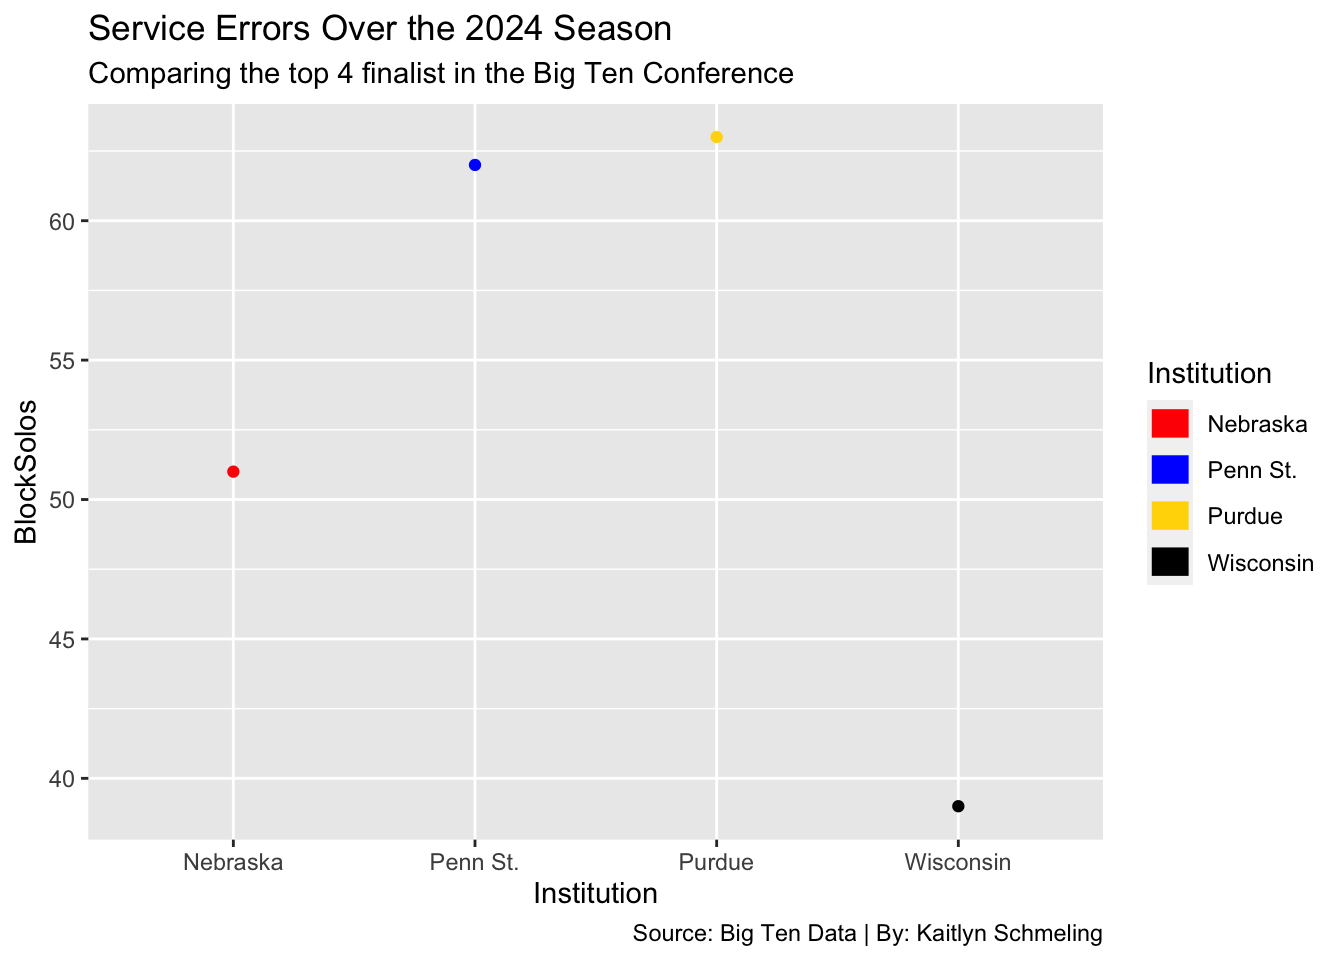
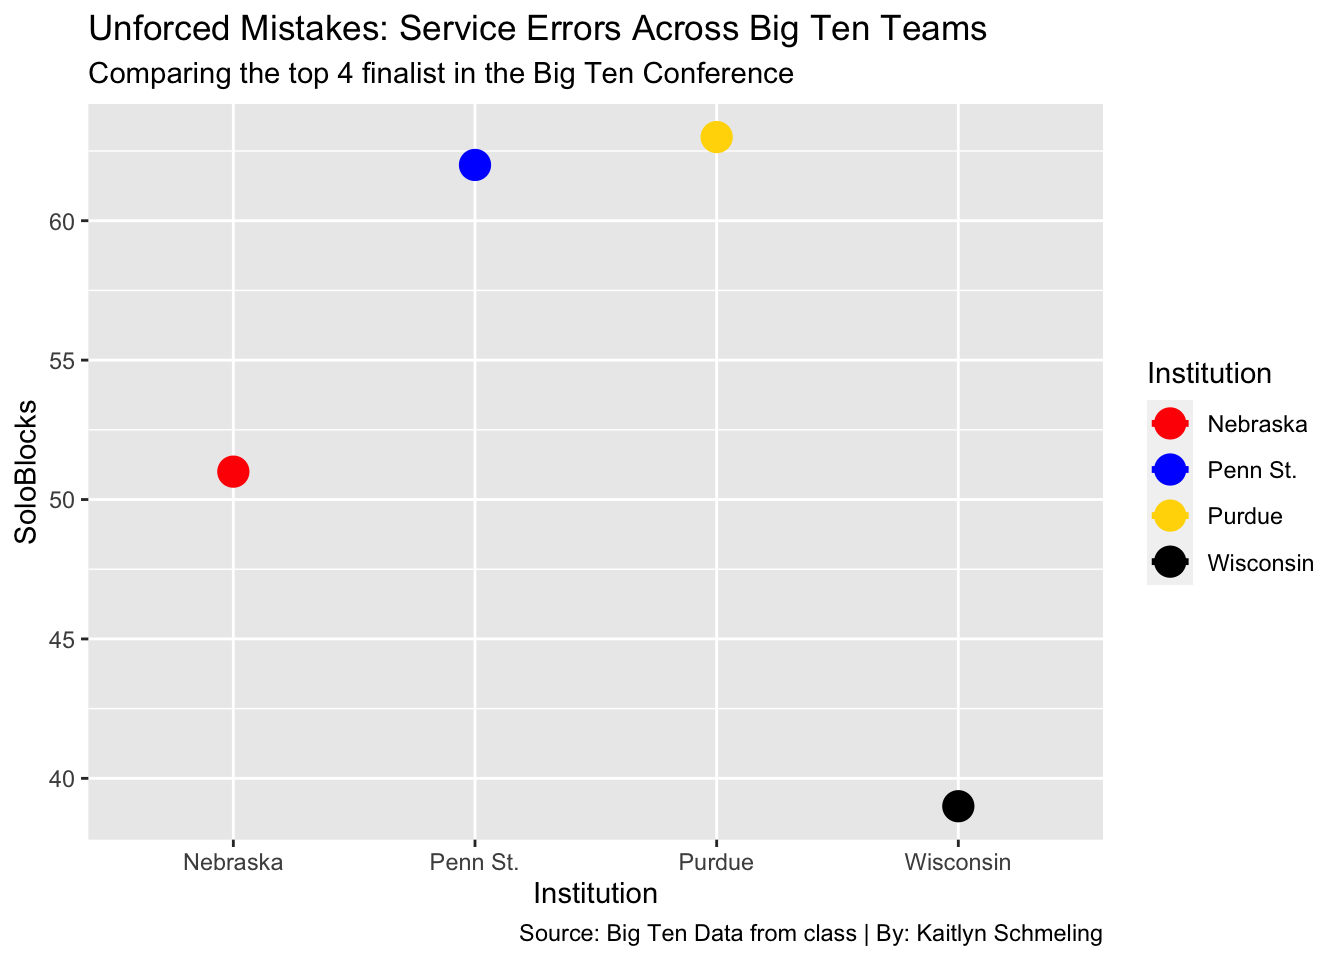
commit to main

diff --git a/posts/bigten_season_outcome/index.html b/posts/bigten_season_outcome/index.html
@@ -190,7 +190,7 @@ pre > code.sourceCode > span > a:first-child::before { text-decoration: underlin
 
 
 
-<p>With almost a near perfect season the Husker Volleyball team had their eyes set on making it to the National Championship for the 2024 season. Sadly, the Nebraska Volleyball team did not have the outcome that they were hoping for, falling short in the Final Four. First, let’s dive into looking at the kills per set from other teams in the Big Ten and who has the highest numbers.</p>
+<p>With almost a near perfect season the Husker Volleyball team had their eyes set on making it to the National Championship for the 2024 season. Sadly, the Nebraska Volleyball team did not have the outcome that they were hoping for, falling short in the Final Four. But looking at their season before this, they won the Big Ten Championships. Their season was almost perfect and there stats how that. First, let’s dive into looking at the kills per set from other teams in the Big Ten and who has the highest numbers.</p>
 <div class="cell">
 <details class="code-fold">
 <summary>Code</summary>
@@ -202,9 +202,9 @@ pre > code.sourceCode > span > a:first-child::before { text-decoration: underlin
 <span id="cb1-6"><a href="#cb1-6" aria-hidden="true" tabindex="-1"></a>  <span class="co">#|\\ warning: false </span></span>
 <span id="cb1-7"><a href="#cb1-7" aria-hidden="true" tabindex="-1"></a><span class="fu">ggplot</span>(data, <span class="fu">aes</span>(<span class="at">x=</span>Institution, <span class="at">y=</span>Kills)) <span class="sc">+</span></span>
 <span id="cb1-8"><a href="#cb1-8" aria-hidden="true" tabindex="-1"></a>  <span class="fu">geom_boxplot</span>() <span class="sc">+</span></span>
-<span id="cb1-9"><a href="#cb1-9" aria-hidden="true" tabindex="-1"></a>  <span class="fu">labs</span>(<span class="at">title=</span><span class="st">"Kills Per Set Distribution"</span>, <span class="at">x=</span><span class="st">"Institutions"</span>, <span class="at">y=</span><span class="st">"Kills"</span>,</span>
+<span id="cb1-9"><a href="#cb1-9" aria-hidden="true" tabindex="-1"></a>  <span class="fu">labs</span>(<span class="at">title=</span><span class="st">"Offensive Output: Kills Per Set Across Big Ten Teams"</span>, <span class="at">x=</span><span class="st">"Institutions"</span>, <span class="at">y=</span><span class="st">"Kills"</span>,</span>
 <span id="cb1-10"><a href="#cb1-10" aria-hidden="true" tabindex="-1"></a>       <span class="at">subtitle =</span><span class="st">"Nebraska's biggest competition came down to Penn State."</span>,</span>
-<span id="cb1-11"><a href="#cb1-11" aria-hidden="true" tabindex="-1"></a>       <span class="at">caption =</span> <span class="st">"Source: Big Ten Data | By: Kaitlyn Schmeling"</span>) <span class="sc">+</span></span>
+<span id="cb1-11"><a href="#cb1-11" aria-hidden="true" tabindex="-1"></a>       <span class="at">caption =</span> <span class="st">"Source: Big Ten Data from class | By: Kaitlyn Schmeling"</span>) <span class="sc">+</span></span>
 <span id="cb1-12"><a href="#cb1-12" aria-hidden="true" tabindex="-1"></a>  <span class="fu">theme_minimal</span>()<span class="sc">+</span></span>
 <span id="cb1-13"><a href="#cb1-13" aria-hidden="true" tabindex="-1"></a>  <span class="fu">theme</span>(<span class="at">axis.text.x =</span> <span class="fu">element_text</span>(<span class="at">angle =</span> <span class="dv">45</span>, <span class="at">hjust =</span> <span class="dv">1</span>))</span></code><button title="Copy to Clipboard" class="code-copy-button"><i class="bi"></i></button></pre></div>
 </details>
@@ -225,22 +225,21 @@ pre > code.sourceCode > span > a:first-child::before { text-decoration: underlin
 <span id="cb2-2"><a href="#cb2-2" aria-hidden="true" tabindex="-1"></a><span class="fu">library</span>(tidyr)</span>
 <span id="cb2-3"><a href="#cb2-3" aria-hidden="true" tabindex="-1"></a></span>
 <span id="cb2-4"><a href="#cb2-4" aria-hidden="true" tabindex="-1"></a>stats <span class="ot">&lt;-</span> <span class="fu">data.frame</span>(</span>
-<span id="cb2-5"><a href="#cb2-5" aria-hidden="true" tabindex="-1"></a>  <span class="at">Team =</span> <span class="fu">c</span>(<span class="st">"Nebraska"</span>, <span class="st">"Penn State"</span>, <span class="st">"Wisconsin"</span>, <span class="st">"Minnesota"</span>),</span>
+<span id="cb2-5"><a href="#cb2-5" aria-hidden="true" tabindex="-1"></a>  <span class="at">Institution =</span> <span class="fu">c</span>(<span class="st">"Nebraska"</span>, <span class="st">"Penn State"</span>, <span class="st">"Wisconsin"</span>, <span class="st">"Minnesota"</span>),</span>
 <span id="cb2-6"><a href="#cb2-6" aria-hidden="true" tabindex="-1"></a>  <span class="at">Kills =</span> <span class="fu">c</span>(<span class="dv">900</span>, <span class="dv">850</span>, <span class="dv">880</span>, <span class="dv">820</span>),</span>
 <span id="cb2-7"><a href="#cb2-7" aria-hidden="true" tabindex="-1"></a>  <span class="at">Errors =</span> <span class="fu">c</span>(<span class="dv">150</span>, <span class="dv">140</span>, <span class="dv">160</span>, <span class="dv">130</span>),</span>
-<span id="cb2-8"><a href="#cb2-8" aria-hidden="true" tabindex="-1"></a>  <span class="at">Total_Attacks =</span> <span class="fu">c</span>(<span class="dv">2200</span>, <span class="dv">2100</span>, <span class="dv">2150</span>, <span class="dv">2000</span>),</span>
-<span id="cb2-9"><a href="#cb2-9" aria-hidden="true" tabindex="-1"></a>  <span class="at">Service_Errors =</span> <span class="fu">c</span>(<span class="dv">75</span>, <span class="dv">80</span>, <span class="dv">70</span>, <span class="dv">85</span>)</span>
-<span id="cb2-10"><a href="#cb2-10" aria-hidden="true" tabindex="-1"></a>)</span>
-<span id="cb2-11"><a href="#cb2-11" aria-hidden="true" tabindex="-1"></a></span>
-<span id="cb2-12"><a href="#cb2-12" aria-hidden="true" tabindex="-1"></a>stats_long <span class="ot">&lt;-</span> <span class="fu">pivot_longer</span>(stats, <span class="at">cols =</span> <span class="sc">-</span>Team, <span class="at">names_to =</span> <span class="st">"Stat"</span>, <span class="at">values_to =</span> <span class="st">"Value"</span>)</span>
-<span id="cb2-13"><a href="#cb2-13" aria-hidden="true" tabindex="-1"></a></span>
-<span id="cb2-14"><a href="#cb2-14" aria-hidden="true" tabindex="-1"></a><span class="fu">ggplot</span>(stats_long, <span class="fu">aes</span>(<span class="at">x=</span>Stat, <span class="at">y=</span>Value, <span class="at">fill=</span>Team)) <span class="sc">+</span></span>
-<span id="cb2-15"><a href="#cb2-15" aria-hidden="true" tabindex="-1"></a>  <span class="fu">geom_bar</span>(<span class="at">stat=</span><span class="st">"identity"</span>, <span class="at">position=</span><span class="st">"dodge"</span>) <span class="sc">+</span></span>
-<span id="cb2-16"><a href="#cb2-16" aria-hidden="true" tabindex="-1"></a>  <span class="fu">labs</span>(<span class="at">title=</span><span class="st">"Nebraska vs. Top Opponents: Key Stats"</span>, <span class="at">x=</span><span class="st">"Stat Type"</span>, <span class="at">y=</span><span class="st">"Value"</span>,</span>
-<span id="cb2-17"><a href="#cb2-17" aria-hidden="true" tabindex="-1"></a>       <span class="at">subtitle =</span><span class="st">"Nebraska having the highest total attacks and kills."</span>,</span>
-<span id="cb2-18"><a href="#cb2-18" aria-hidden="true" tabindex="-1"></a>       <span class="at">caption =</span> <span class="st">"Source: Big Ten Data | By: Kaitlyn Schmeling"</span>) <span class="sc">+</span></span>
-<span id="cb2-19"><a href="#cb2-19" aria-hidden="true" tabindex="-1"></a>  <span class="fu">theme_minimal</span>()<span class="sc">+</span></span>
-<span id="cb2-20"><a href="#cb2-20" aria-hidden="true" tabindex="-1"></a>            <span class="fu">theme</span>(<span class="at">axis.text.x =</span> <span class="fu">element_text</span>(<span class="at">angle =</span> <span class="dv">15</span>, <span class="at">hjust =</span> <span class="dv">1</span>))</span></code><button title="Copy to Clipboard" class="code-copy-button"><i class="bi"></i></button></pre></div>
+<span id="cb2-8"><a href="#cb2-8" aria-hidden="true" tabindex="-1"></a>  <span class="at">Total_Attacks =</span> <span class="fu">c</span>(<span class="dv">2200</span>, <span class="dv">2100</span>, <span class="dv">2150</span>, <span class="dv">2000</span>)</span>
+<span id="cb2-9"><a href="#cb2-9" aria-hidden="true" tabindex="-1"></a>)</span>
+<span id="cb2-10"><a href="#cb2-10" aria-hidden="true" tabindex="-1"></a></span>
+<span id="cb2-11"><a href="#cb2-11" aria-hidden="true" tabindex="-1"></a>stats_long <span class="ot">&lt;-</span> <span class="fu">pivot_longer</span>(stats, <span class="at">cols =</span> <span class="sc">-</span>Institution, <span class="at">names_to =</span> <span class="st">"Stat"</span>, <span class="at">values_to =</span> <span class="st">"Value"</span>)</span>
+<span id="cb2-12"><a href="#cb2-12" aria-hidden="true" tabindex="-1"></a></span>
+<span id="cb2-13"><a href="#cb2-13" aria-hidden="true" tabindex="-1"></a><span class="fu">ggplot</span>(stats_long, <span class="fu">aes</span>(<span class="at">x=</span>Stat, <span class="at">y=</span>Value, <span class="at">fill=</span>Institution)) <span class="sc">+</span></span>
+<span id="cb2-14"><a href="#cb2-14" aria-hidden="true" tabindex="-1"></a>  <span class="fu">geom_bar</span>(<span class="at">stat=</span><span class="st">"identity"</span>, <span class="at">position=</span><span class="st">"dodge"</span>) <span class="sc">+</span></span>
+<span id="cb2-15"><a href="#cb2-15" aria-hidden="true" tabindex="-1"></a>  <span class="fu">labs</span>(<span class="at">title=</span><span class="st">"2024 Big Ten Volleyball: Offensive Metrics by Team"</span>, <span class="at">x=</span><span class="st">"Stat Type"</span>, <span class="at">y=</span><span class="st">"Value"</span>,</span>
+<span id="cb2-16"><a href="#cb2-16" aria-hidden="true" tabindex="-1"></a>       <span class="at">subtitle =</span><span class="st">"Nebraska having the highest total attacks and kills."</span>,</span>
+<span id="cb2-17"><a href="#cb2-17" aria-hidden="true" tabindex="-1"></a>       <span class="at">caption =</span> <span class="st">"Source: Big Ten Data from class | By: Kaitlyn Schmeling"</span>) <span class="sc">+</span></span>
+<span id="cb2-18"><a href="#cb2-18" aria-hidden="true" tabindex="-1"></a>  <span class="fu">theme_minimal</span>()<span class="sc">+</span></span>
+<span id="cb2-19"><a href="#cb2-19" aria-hidden="true" tabindex="-1"></a>            <span class="fu">theme</span>(<span class="at">axis.text.x =</span> <span class="fu">element_text</span>(<span class="at">angle =</span> <span class="dv">0</span>, <span class="at">hjust =</span> <span class="dv">1</span>))</span></code><button title="Copy to Clipboard" class="code-copy-button"><i class="bi"></i></button></pre></div>
 </details>
 <div class="cell-output-display">
 <div>
@@ -276,22 +275,25 @@ Attaching package: 'dplyr'</code></pre>
 </div>
 <details class="code-fold">
 <summary>Code</summary>
-<div class="sourceCode cell-code" id="cb7"><pre class="sourceCode r code-with-copy"><code class="sourceCode r"><span id="cb7-1"><a href="#cb7-1" aria-hidden="true" tabindex="-1"></a>data <span class="ot">&lt;-</span> <span class="fu">read.csv</span>(<span class="st">"2024_big_ten_vball.csv"</span>)</span>
+<div class="sourceCode cell-code" id="cb7"><pre class="sourceCode r code-with-copy"><code class="sourceCode r"><span id="cb7-1"><a href="#cb7-1" aria-hidden="true" tabindex="-1"></a><span class="fu">library</span>(readr)</span>
 <span id="cb7-2"><a href="#cb7-2" aria-hidden="true" tabindex="-1"></a></span>
-<span id="cb7-3"><a href="#cb7-3" aria-hidden="true" tabindex="-1"></a>data_filtered <span class="ot">&lt;-</span> data <span class="sc">%&gt;%</span></span>
-<span id="cb7-4"><a href="#cb7-4" aria-hidden="true" tabindex="-1"></a>  <span class="fu">filter</span>(Institution <span class="sc">%in%</span> <span class="fu">c</span>(<span class="st">"Nebraska"</span>, <span class="st">"Penn St."</span>, <span class="st">"Wisconsin"</span>, <span class="st">"Purdue"</span>))</span>
-<span id="cb7-5"><a href="#cb7-5" aria-hidden="true" tabindex="-1"></a></span>
-<span id="cb7-6"><a href="#cb7-6" aria-hidden="true" tabindex="-1"></a></span>
-<span id="cb7-7"><a href="#cb7-7" aria-hidden="true" tabindex="-1"></a><span class="fu">ggplot</span>(data_filtered, <span class="fu">aes</span>(<span class="at">x =</span> Institution, <span class="at">y =</span> BlockSolos, <span class="at">color =</span> Institution, <span class="at">group =</span> Institution)) <span class="sc">+</span></span>
-<span id="cb7-8"><a href="#cb7-8" aria-hidden="true" tabindex="-1"></a>  <span class="fu">geom_line</span>(<span class="at">linewidth =</span> <span class="dv">5</span>) <span class="sc">+</span></span>
-<span id="cb7-9"><a href="#cb7-9" aria-hidden="true" tabindex="-1"></a>  <span class="fu">geom_point</span>(<span class="at">linewidth =</span> <span class="dv">10</span>) <span class="sc">+</span></span>
-<span id="cb7-10"><a href="#cb7-10" aria-hidden="true" tabindex="-1"></a>  <span class="fu">scale_color_manual</span>(<span class="at">values =</span> <span class="fu">c</span>(<span class="st">"Nebraska"</span> <span class="ot">=</span> <span class="st">"red"</span>, <span class="st">"Penn St."</span> <span class="ot">=</span> <span class="st">"blue"</span>, <span class="st">"Wisconsin"</span> <span class="ot">=</span> <span class="st">"black"</span>, <span class="st">"Purdue"</span> <span class="ot">=</span> <span class="st">"gold"</span>)) <span class="sc">+</span></span>
-<span id="cb7-11"><a href="#cb7-11" aria-hidden="true" tabindex="-1"></a>  <span class="fu">labs</span>(<span class="at">title =</span> <span class="st">"Service Errors Over the 2024 Season"</span>,</span>
-<span id="cb7-12"><a href="#cb7-12" aria-hidden="true" tabindex="-1"></a>       <span class="at">subtitle =</span> <span class="st">"Comparing the top 4 finalist in the Big Ten Conference"</span>,</span>
-<span id="cb7-13"><a href="#cb7-13" aria-hidden="true" tabindex="-1"></a>       <span class="at">caption =</span> <span class="st">"Source: Big Ten Data | By: Kaitlyn Schmeling"</span>)</span></code><button title="Copy to Clipboard" class="code-copy-button"><i class="bi"></i></button></pre></div>
+<span id="cb7-3"><a href="#cb7-3" aria-hidden="true" tabindex="-1"></a>data <span class="ot">&lt;-</span> <span class="fu">read.csv</span>(<span class="st">"2024_big_ten_vball.csv"</span>)</span>
+<span id="cb7-4"><a href="#cb7-4" aria-hidden="true" tabindex="-1"></a></span>
+<span id="cb7-5"><a href="#cb7-5" aria-hidden="true" tabindex="-1"></a>data_filtered <span class="ot">&lt;-</span> data <span class="sc">%&gt;%</span></span>
+<span id="cb7-6"><a href="#cb7-6" aria-hidden="true" tabindex="-1"></a>  <span class="fu">filter</span>(Institution <span class="sc">%in%</span> <span class="fu">c</span>(<span class="st">"Nebraska"</span>, <span class="st">"Penn St."</span>, <span class="st">"Wisconsin"</span>, <span class="st">"Purdue"</span>))</span>
+<span id="cb7-7"><a href="#cb7-7" aria-hidden="true" tabindex="-1"></a></span>
+<span id="cb7-8"><a href="#cb7-8" aria-hidden="true" tabindex="-1"></a></span>
+<span id="cb7-9"><a href="#cb7-9" aria-hidden="true" tabindex="-1"></a><span class="fu">ggplot</span>(data_filtered, <span class="fu">aes</span>(<span class="at">x =</span> Institution, <span class="at">y =</span> SoloBlocks, <span class="at">color =</span> Institution, <span class="at">group =</span> Institution)) <span class="sc">+</span></span>
+<span id="cb7-10"><a href="#cb7-10" aria-hidden="true" tabindex="-1"></a>  <span class="fu">geom_line</span>(<span class="at">size =</span> <span class="fl">1.2</span>) <span class="sc">+</span></span>
+<span id="cb7-11"><a href="#cb7-11" aria-hidden="true" tabindex="-1"></a>  <span class="fu">geom_point</span>(<span class="at">size =</span> <span class="dv">5</span>) <span class="sc">+</span></span>
+<span id="cb7-12"><a href="#cb7-12" aria-hidden="true" tabindex="-1"></a>  <span class="fu">scale_color_manual</span>(<span class="at">values =</span> <span class="fu">c</span>(<span class="st">"Nebraska"</span> <span class="ot">=</span> <span class="st">"red"</span>, <span class="st">"Penn St."</span> <span class="ot">=</span> <span class="st">"blue"</span>, <span class="st">"Wisconsin"</span> <span class="ot">=</span> <span class="st">"black"</span>, <span class="st">"Purdue"</span> <span class="ot">=</span> <span class="st">"gold"</span>)) <span class="sc">+</span></span>
+<span id="cb7-13"><a href="#cb7-13" aria-hidden="true" tabindex="-1"></a>  <span class="fu">labs</span>(<span class="at">title =</span> <span class="st">"Unforced Mistakes: Service Errors Across Big Ten Teams"</span>,</span>
+<span id="cb7-14"><a href="#cb7-14" aria-hidden="true" tabindex="-1"></a>       <span class="at">subtitle =</span> <span class="st">"Comparing the top 4 finalist in the Big Ten Conference"</span>,</span>
+<span id="cb7-15"><a href="#cb7-15" aria-hidden="true" tabindex="-1"></a>       <span class="at">caption =</span> <span class="st">"Source: Big Ten Data from class | By: Kaitlyn Schmeling"</span>)</span></code><button title="Copy to Clipboard" class="code-copy-button"><i class="bi"></i></button></pre></div>
 </details>
 <div class="cell-output cell-output-stderr">
-<pre><code>Warning in geom_point(linewidth = 10): Ignoring unknown parameters: `linewidth`</code></pre>
+<pre><code>Warning: Using `size` aesthetic for lines was deprecated in ggplot2 3.4.0.
+ℹ Please use `linewidth` instead.</code></pre>
 </div>
 <div class="cell-output cell-output-stderr">
 <pre><code>`geom_line()`: Each group consists of only one observation.
@@ -307,7 +309,7 @@ Attaching package: 'dplyr'</code></pre>
 <details class="code-fold">
 <summary>Code</summary>
 <div class="sourceCode cell-code" id="cb10"><pre class="sourceCode r code-with-copy"><code class="sourceCode r"><span id="cb10-1"><a href="#cb10-1" aria-hidden="true" tabindex="-1"></a>       x <span class="ot">=</span> <span class="st">"Team"</span></span>
-<span id="cb10-2"><a href="#cb10-2" aria-hidden="true" tabindex="-1"></a>       y <span class="ot">=</span> <span class="st">"BlockSolos"</span></span>
+<span id="cb10-2"><a href="#cb10-2" aria-hidden="true" tabindex="-1"></a>       y <span class="ot">=</span> <span class="st">"Solo Block Total"</span></span>
 <span id="cb10-3"><a href="#cb10-3" aria-hidden="true" tabindex="-1"></a>       color <span class="ot">=</span> <span class="st">"Team"</span> <span class="sc">+</span></span>
 <span id="cb10-4"><a href="#cb10-4" aria-hidden="true" tabindex="-1"></a>  <span class="fu">theme_minimal</span>()</span></code><button title="Copy to Clipboard" class="code-copy-button"><i class="bi"></i></button></pre></div>
 </details>

diff --git a/index.html b/index.html
@@ -205,7 +205,7 @@ window.Quarto = {
 
 <div class="quarto-listing quarto-listing-container-default" id="listing-listing">
 <div class="list quarto-listing-default">
-<div class="quarto-post image-right" data-index="0" data-categories="YmlndGVuJTJDdm9sbGV5YmFsbCUyQ25lYnJhc2th" data-listing-date-sort="1743483600000" data-listing-file-modified-sort="1744218423248" data-listing-date-modified-sort="NaN" data-listing-reading-time-sort="4" data-listing-word-count-sort="684">
+<div class="quarto-post image-right" data-index="0" data-categories="YmlndGVuJTJDdm9sbGV5YmFsbCUyQ25lYnJhc2th" data-listing-date-sort="1743483600000" data-listing-file-modified-sort="1744219799553" data-listing-date-modified-sort="NaN" data-listing-reading-time-sort="4" data-listing-word-count-sort="676">
 <div class="thumbnail">
 <p><a href="./posts/bigten_season_outcome/index.html" class="no-external"></a></p><a href="./posts/bigten_season_outcome/index.html" class="no-external">
 <p><img loading="lazy" src="./posts/bigten_season_outcome/image.png" class="thumbnail-image"></p>
